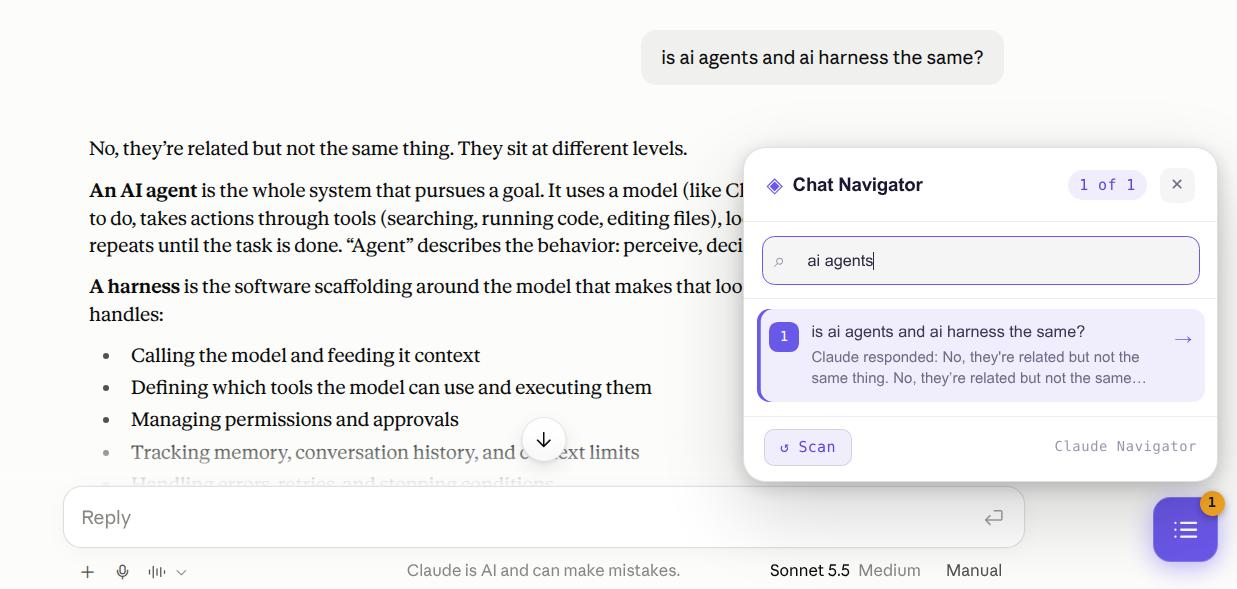
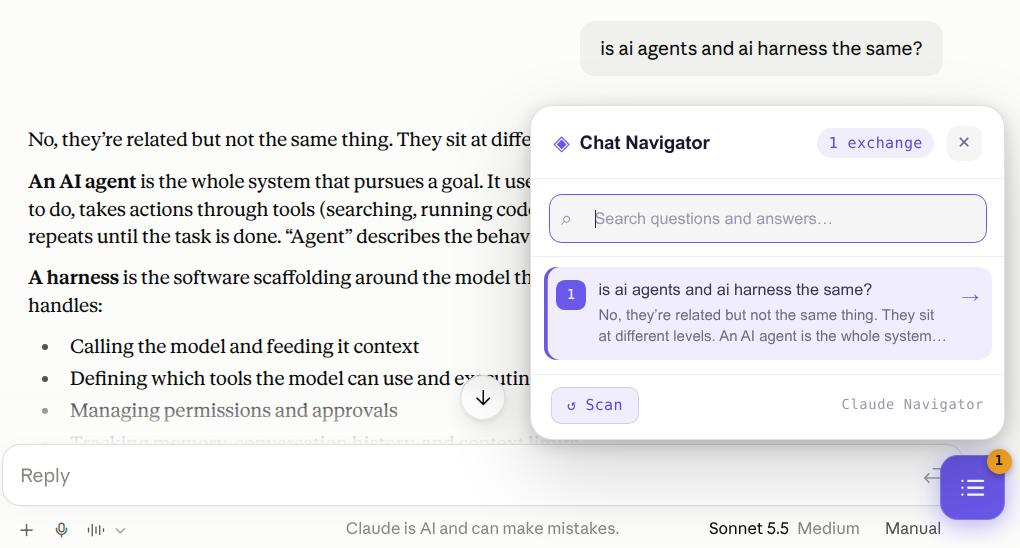
Update search screenshot and caption

diff --git a/README.md b/README.md
@@ -8,9 +8,9 @@ The toggle button sits at the bottom-right of a conversation, with a badge showi
 
 ![Toggle button with exchange count on a claude.ai conversation](docs/screenshots/panel.jpg)
 
-Open the panel to see each exchange, search across questions and answers, and jump to one:
+Open the panel to see each exchange with a preview of the answer, search across questions and answers, and jump to one:
 
-![Chat Navigator panel with a search filter applied](docs/screenshots/search.jpg)
+![Chat Navigator panel listing an exchange with an answer preview](docs/screenshots/search.jpg)
 
 ## Installation
 
